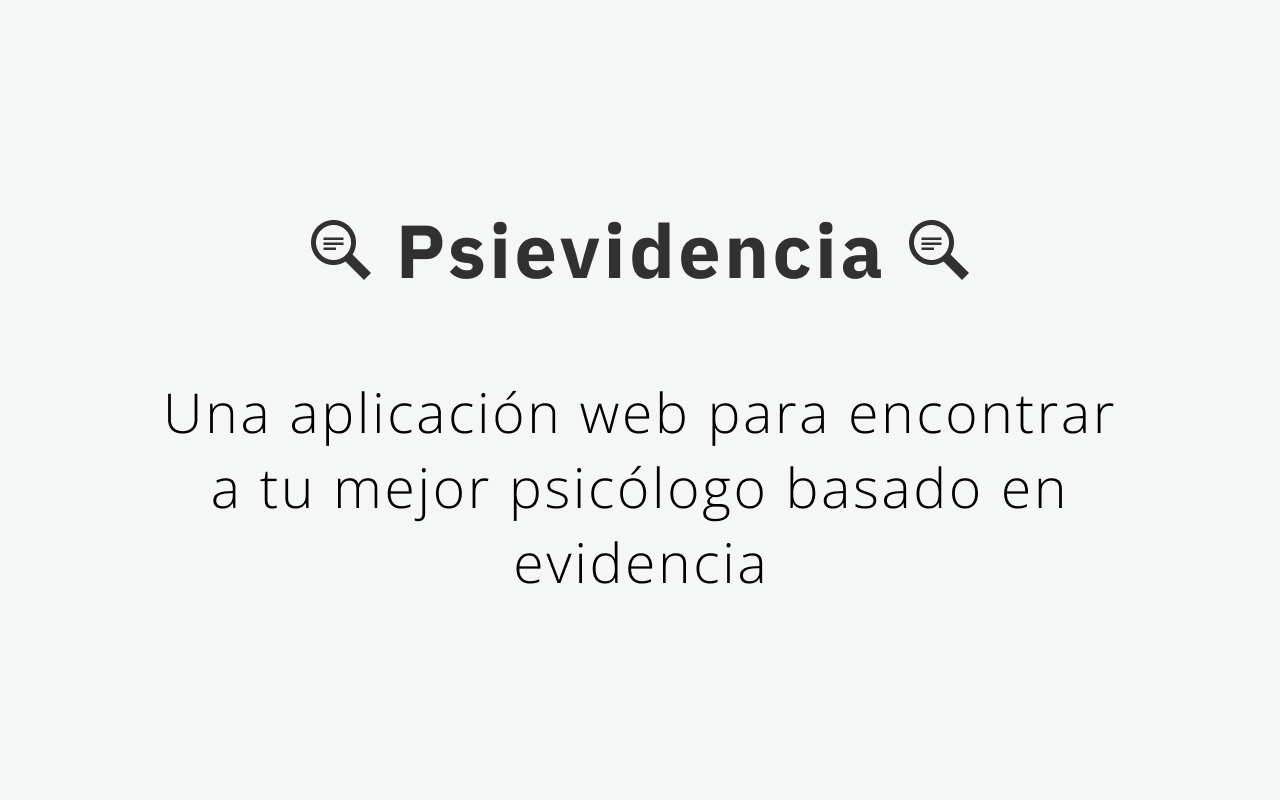
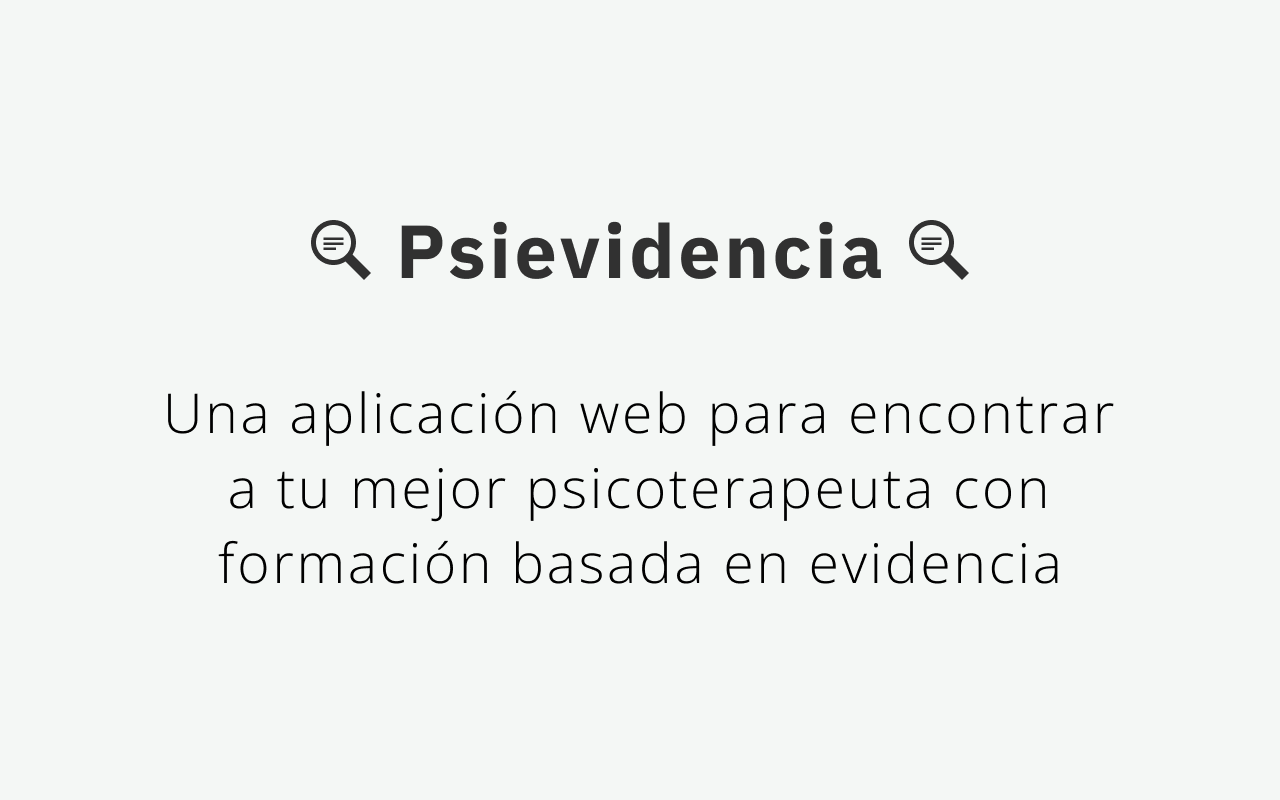
refactor: minor wording change

Changed region(s): [[0.1562, 0.5938, 0.8438, 0.6562], [0.1562, 0.6875, 0.8438, 0.75]]

diff --git a/components/global/TheNavbar.tsx b/components/global/TheNavbar.tsx
@@ -11,6 +11,7 @@ import { logout } from "../../store/user/userSlice";
 import UsersService from "../../services/UsersService";
 import { useRouter } from "next/router";
 import { useState, useEffect } from "react";
+import Magnifier from "@/public/icons/magnifier.svg";
 
 const TheNavbar = (props: any) => {
   const { showLogin, showRegister, loginRef, registerRef }: any = props;
@@ -38,55 +39,60 @@ const TheNavbar = (props: any) => {
       {mounted && (
         <header className="w-full mx-auto py-5 navbar">
           <div className="container w-11/12 mx-auto">
-            <ul className="flex justify-end">
-              {check != null ? (
-                <>
-                  <li className="p-2 flex">
-                    {router.pathname === "/favorites" ? (
-                      <Link href="/">
-                        <a className="self-center underline">Home</a>
-                      </Link>
-                    ) : (
-                      <Link href="/favorites">
-                        <a className="self-center underline">Mis favoritos</a>
-                      </Link>
-                    )}
-                  </li>
-                  <li>
-                    <button
-                      className="rounded btn bg-primary text-white p-2 border-white"
-                      onClick={() => handleLogout()}
-                    >
-                      Salir
-                    </button>
-                  </li>
-                </>
-              ) : (
-                <>
-                  <li className="p-2">
-                    <TheModal
-                      ref={loginRef}
-                      button={<LoginBtn />}
-                      title={"Ingresar"}
-                      content={<TheLogin showRegister={showRegister} />}
-                      modalCentered={true}
-                      modalMask={true}
-                      showRegister={showRegister}
-                    />
-                  </li>
-                  <li className="p-2">
-                    <TheModal
-                      ref={registerRef}
-                      button={<RegisterBtn />}
-                      title={"Registrarse"}
-                      content={<TheRegister showLogin={showLogin} />}
-                      modalCentered={true}
-                      modalMask={true}
-                      showLogin={showLogin}
-                    />
-                  </li>
-                </>
-              )}
+            <ul className="flex">
+              <li className="flex my-auto">
+                <Magnifier className="w-8 h-8 flex" />
+              </li>
+              <div className="flex ml-auto">
+                {check != null ? (
+                  <>
+                    <li className="p-2 flex">
+                      {router.pathname === "/favorites" ? (
+                        <Link href="/">
+                          <a className="self-center underline">Home</a>
+                        </Link>
+                      ) : (
+                        <Link href="/favorites">
+                          <a className="self-center underline">Mis favoritos</a>
+                        </Link>
+                      )}
+                    </li>
+                    <li>
+                      <button
+                        className="rounded btn bg-primary text-white p-2 border-white"
+                        onClick={() => handleLogout()}
+                      >
+                        Salir
+                      </button>
+                    </li>
+                  </>
+                ) : (
+                  <>
+                    <li className="p-2">
+                      <TheModal
+                        ref={loginRef}
+                        button={<LoginBtn />}
+                        title={"Ingresar"}
+                        content={<TheLogin showRegister={showRegister} />}
+                        modalCentered={true}
+                        modalMask={true}
+                        showRegister={showRegister}
+                      />
+                    </li>
+                    <li className="p-2">
+                      <TheModal
+                        ref={registerRef}
+                        button={<RegisterBtn />}
+                        title={"Registrarse"}
+                        content={<TheRegister showLogin={showLogin} />}
+                        modalCentered={true}
+                        modalMask={true}
+                        showLogin={showLogin}
+                      />
+                    </li>
+                  </>
+                )}
+              </div>
             </ul>
           </div>
         </header>

diff --git a/pages/index.tsx b/pages/index.tsx
@@ -307,7 +307,7 @@ const Home = (props: any, ref: any) => {
         <meta name="viewport" content="width=device-width, initial-scale=1" />
         <meta
           name="description"
-          content="Una aplicación web para encontrar a tu mejor psicólogo basado en evidencia."
+          content="Una aplicación web para encontrar a tu mejor psicoterapeuta con formación basada en evidencia."
         />
         <meta name="keywords" content="psievidencia psicologia evidencia" />
         <meta name="twitter:image:src" content="/images/cover.png" />

diff --git a/pages/404.tsx b/pages/404.tsx
@@ -1,0 +1,7 @@
+import React from "react";
+
+const Error404 = () => {
+  return <div>Error404</div>;
+};
+
+export default Error404;
